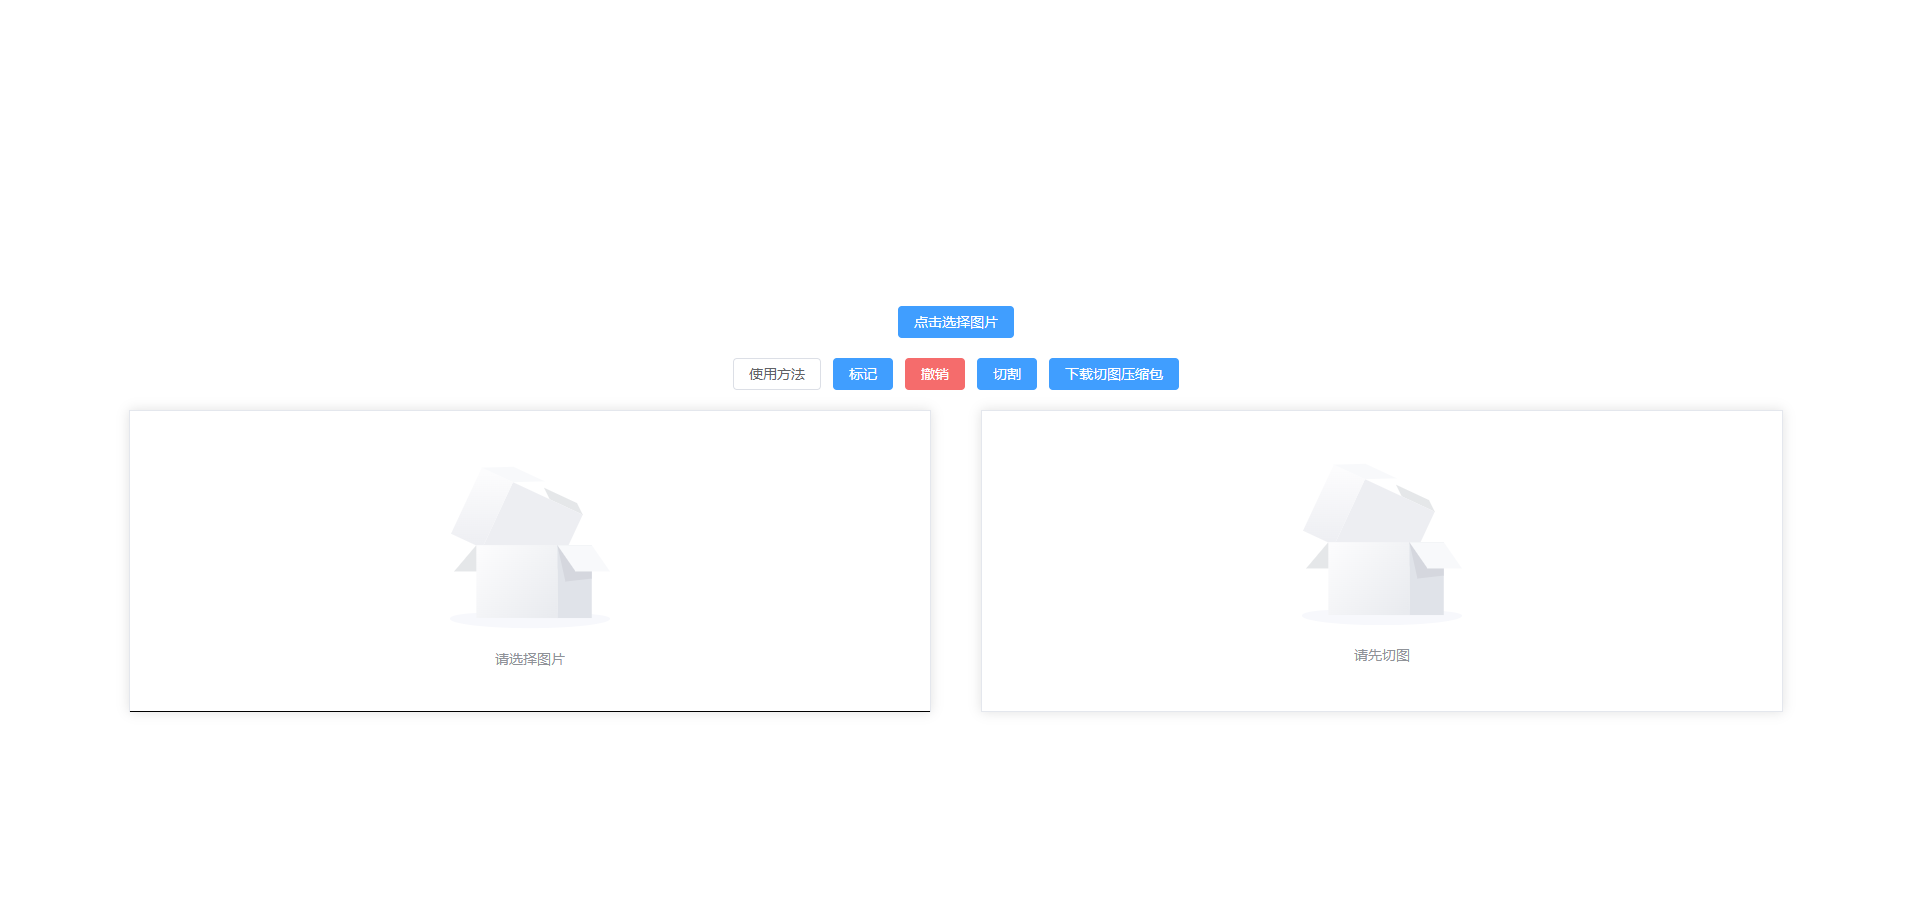
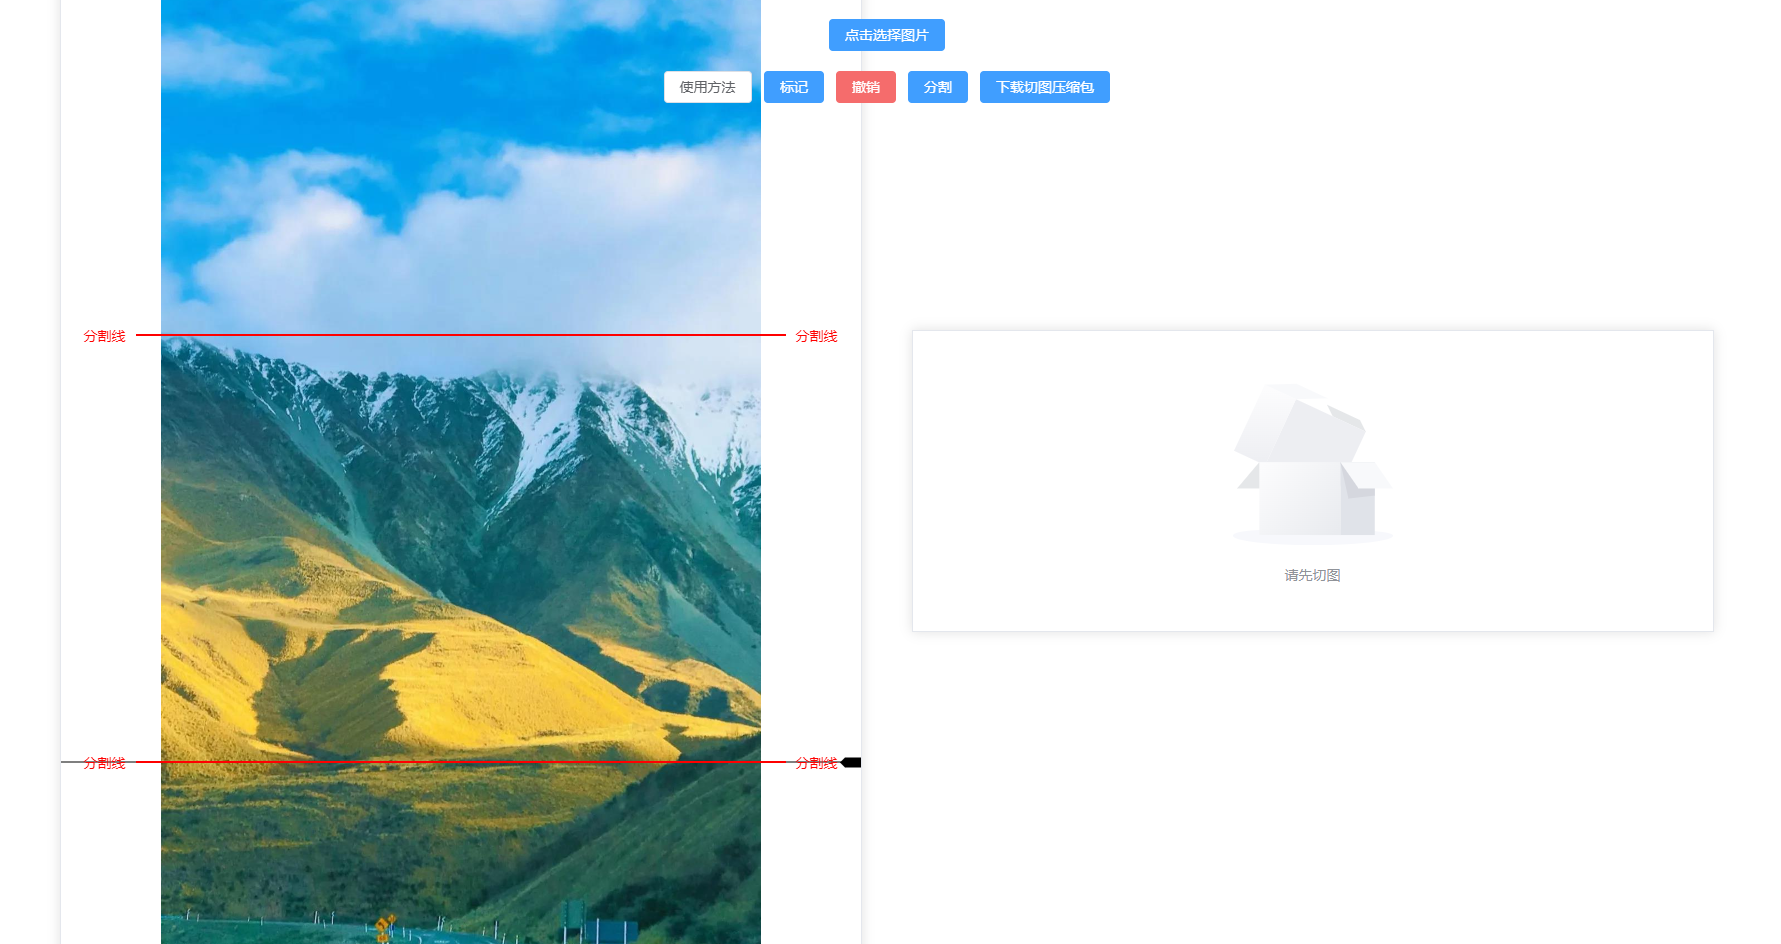
新增拖动功能

diff --git a/src/App.vue b/src/App.vue
@@ -25,13 +25,12 @@
         >下载切图压缩包</el-button
       >
     </div>
-
+    <!-- @click="handleLineClick" -->
     <div class="content-box">
       <div
         ref="imageBox"
         class="image-box"
         :style="{ height: imageHeight + 'px' }"
-        @click="handleLineClick"
       >
         <template v-if="!imageUrl">
           <el-empty description="请选择图片" />
@@ -41,11 +40,20 @@
           class="image-canvas"
           :style="{ height: imageHeight + 'px' }"
         ></canvas>
-        <div class="cut-line" :style="{ top: cutLinePosition + 'px' }"></div>
+        <!-- @mouseleave="endDrag" -->
+        <div
+          class="cut-line"
+          :style="{ top: cutLinePosition + 'px' }"
+          @mousedown.stop="startDrag"
+          @mousemove.stop="dragging"
+          @mouseup.stop="endDrag"
+        >
+          <div class="cut-line-marker"></div>
+        </div>
         <!-- <div class="mark-box">
-        <span class="mark-text">切割线</span>
+        <span class="mark-text">分割线</span>
         <div class="mark-line"></div>
-        <span class="mark-text">切割线</span>
+        <span class="mark-text">分割线</span>
       </div> -->
       </div>
       <div class="img-preview">
@@ -71,12 +79,12 @@ import { saveAs } from "file-saver";
 const OpenUsageInstructions = () => {
   ElMessageBox.alert(
     `${
-      "1.点击 '选择图片' 按钮选择图片<br>" +
-      "2.在图片左侧预览区任意位置点击，黑色线条即会移动到这个位置然后点击 '标记' 按钮就会在当前黑色线条停留位置生成一条红色的线来标记需要分割的位置<br>" +
-      "3.点击 '分割' 按钮开始分割，并将预览图展示出来<br>" +
-      "4.点击 '下载切图压缩包' 按钮即可下载分割好的图片压缩包<br>" +
-      "5.点击 '撤销' 按钮可撤销最近一次标记<br>" +
-      "6.点击 '重置' 按钮可重置（暂时没做，手动 F5 刷新）<br>" +
+      "1. 点击 '选择图片' 按钮选择图片，即可在左侧预览区预览图片<br>" +
+      "2. 在左侧预览区任意位置点击，或者鼠标在黑色线条处按下拖动，黑色线条即会移动到目标位置，点击 '标记' 按钮就会在当前黑色线条停留位置生成一条红色的线来标记需要分割的位置<br>" +
+      "3. 点击 '分割' 按钮开始分割，并在右侧将预览图展示出来<br>" +
+      "4. 点击 '下载切图压缩包' 按钮即可下载分割好的图片压缩包<br>" +
+      "5. 点击 '撤销' 按钮可撤销最近一次标记<br>" +
+      "6. 点击 '重置' 按钮可重置（暂时没做，手动 F5 刷新）<br>" +
       "Tisp：点击右上角图标即可查看源码"
     }`,
     "使用方法",
@@ -96,7 +104,7 @@ const imageBox = ref(null);
 const imageHeight = ref(300);
 
 // 标记点位置和标记线数组
-const cutLinePosition = ref(300);
+const cutLinePosition = ref(100);
 const cutLines = ref([]);
 const marks = ref([]);
 
@@ -146,7 +154,7 @@ const redrawMarks = () => {
     // 创建并设置mark-text元素
     const markTextBefore = document.createElement("span");
     markTextBefore.classList.add("mark-text");
-    markTextBefore.textContent = "切割线";
+    markTextBefore.textContent = "分割线";
 
     // 创建mark-line元素
     const markLine = document.createElement("div");
@@ -155,7 +163,7 @@ const redrawMarks = () => {
     // 创建并设置第二个mark-text元素
     const markTextAfter = document.createElement("span");
     markTextAfter.classList.add("mark-text");
-    markTextAfter.textContent = "切割线";
+    markTextAfter.textContent = "分割线";
 
     // 将mark-text和mark-line元素添加到markBox中
     markBox.appendChild(markTextBefore);
@@ -332,6 +340,92 @@ const handleDownload = () => {
     saveAs(content, "长切图压缩包包.zip");
   });
 };
+
+const isDragging = ref(false); // 拖拽状态标志
+const lastMouseY = ref(0); // 上一次鼠标的Y坐标
+
+const startDrag = (event) => {
+  console.log("====================================");
+  console.log("拖动开始了", event);
+  console.log("====================================");
+  isDragging.value = true;
+  lastMouseY.value = event.clientY;
+  document.addEventListener("mousemove", dragging);
+  document.addEventListener("mouseup", endDrag);
+  document.addEventListener("mouseleave", endDrag);
+};
+
+const dragging = (event) => {
+  if (!isDragging.value) return;
+
+  console.log("====================================");
+  console.log(isDragging.value, "拖动中", event);
+  console.log(event.clientY, "拖动中", lastMouseY.value);
+  console.log("====================================");
+
+  const deltaY = event.clientY - lastMouseY.value;
+
+  const maxHeight = imageBox.value.clientHeight; // 获取父元素高度
+
+  cutLinePosition.value = Math.max(
+    0,
+    Math.min(cutLinePosition.value + deltaY, maxHeight)
+  );
+  lastMouseY.value = event.clientY;
+
+  // 阻止页面滚动
+  event.preventDefault();
+};
+
+const endDrag = (event) => {
+  console.log("====================================");
+  console.log("拖动结束了", event);
+  // 获取cut-line元素的引用
+  const cutLineElement = document.querySelector(".cut-line");
+  // 获取image-box元素的引用
+  const imageBoxElement = document.querySelector(".image-box");
+  console.log(
+    "距离",
+    getOffsetTopRelativeToParent(cutLineElement, imageBoxElement)
+  );
+  console.log("====================================");
+  isDragging.value = false;
+  document.removeEventListener("mousemove", dragging);
+  document.removeEventListener("mouseup", endDrag);
+  document.removeEventListener("mouseleave", endDrag);
+};
+
+const getOffsetTopRelativeToParent = (childElement, parentElement) => {
+  // 首先获取子元素相对于文档的偏移量
+  const childRect = childElement.getBoundingClientRect();
+  const childOffsetTop = childRect.top + window.scrollY;
+
+  // 然后获取父元素的边距和边框
+  const parentStyle = getComputedStyle(parentElement);
+  const parentBorderTop = parseInt(parentStyle.borderTopWidth, 10);
+  const parentPaddingTop = parseInt(parentStyle.paddingTop, 10);
+
+  // 计算父元素的顶部偏移量，包括边距和边框
+  const parentOffsetTop =
+    parentElement.offsetTop + parentBorderTop + parentPaddingTop;
+
+  // 最后，从子元素相对于文档的偏移量中减去父元素的偏移量，得到相对于父元素的偏移量
+  return childOffsetTop - parentOffsetTop;
+};
+
+onMounted(() => {
+  // 获取cut-line元素的引用
+  const cutLineElement = document.querySelector(".cut-line");
+  // 获取image-box元素的引用
+  const imageBoxElement = document.querySelector(".image-box");
+
+  console.log("====================================");
+  console.log(
+    "距离",
+    getOffsetTopRelativeToParent(cutLineElement, imageBoxElement)
+  );
+  console.log("====================================");
+});
 </script>
 
 <style lang="less" scoped>
@@ -395,6 +489,33 @@ const handleDownload = () => {
   background-color: black;
   top: 300px; /* 默认悬浮位置 */
   z-index: 9;
+  cursor: ns-resize;
+  transform: translateY(-50%);
+  display: flex; /* 使用flex布局 */
+  align-items: center; /* 垂直居中对齐 */
+  justify-content: flex-end; /* 水平方向上靠右对齐 */
+}
+
+.cut-line-marker {
+  width: 16px; /* 小元素的宽度 */
+  height: 10px; /* 小元素的高度 */
+  background-color: black; /* 小元素的背景颜色 */
+  // border-radius: 50%; /* 圆形效果 */
+  margin-left: 5px; /* 与横线的间距 */
+  position: relative;
+}
+
+.cut-line-marker::after {
+  content: ""; /* 伪元素需要content属性 */
+  width: 0;
+  height: 0;
+  border-top: 5px solid transparent; /* 上边框 */
+  border-bottom: 5px solid transparent; /* 下边框 */
+  border-right: 5px solid black; /* 右边框，形成三角形 */
+  position: absolute; /* 绝对定位 */
+  top: 50%; /* 垂直居中 */
+  left: -5px; /* 位于矩形的左侧外侧 */
+  transform: translateY(-50%); /* 垂直居中 */
 }
 
 :global(.mark-box) {
@@ -406,6 +527,9 @@ const handleDownload = () => {
   display: flex;
   align-items: center;
   justify-content: center;
+  z-index: 99;
+  user-select: none;
+  pointer-events: none;
 }
 
 :global(.mark-line) {

diff --git a/README.md b/README.md
@@ -1,19 +1,22 @@
 # 无名长图片自由分割/切割在线工具
 
 ## 项目介绍
-在网上闲逛的时候发现有人需要长图自由分割工具，也没找到能用的，就想着自己写一个。
 
-一开始想用类似视频剪辑拖动标记线来定位，但是没实现，目前只实现了点击标记。
+在网上闲逛的时候发现有人需要长图片自由分割工具，也没找到能用的，就想着自己写一个，实现思路就是类似于视频剪辑的视频分割方式。
 
 纯前端实现无需网络
 
+##### 使用技术
+
+Vue3，element-plus，pnpm，file-saver，jszip
+
 ## 使用方法
 
-1.点击 "选择图片" 按钮选择图片
+1.点击 "选择图片" 按钮选择图片，即可在左侧预览区预览图片
 
-2.在图片左侧预览区任意位置点击，黑色线条即会移动到这个为止然后点击 "标记" 按钮就会在当前海色线条停留位置生成一条红色的线来标记需要分割的位置
+2.在左侧预览区任意位置点击，或者鼠标在黑色线条处按下拖动，黑色线条即会移动到目标位置，点击 "标记" 按钮就会在当前黑色线条停留位置生成一条红色的线来标记需要分割的位置
 
-3.点击 "分割" 按钮开始分割，并将预览图展示出来
+3.点击 "分割" 按钮开始分割，并在右侧将预览图展示出来
 
 4.点击 "下载切图压缩包" 按钮即可下载分割好的图片压缩包
 
@@ -30,7 +33,3 @@
 <center> 图二 </center>
 
 ![图二](./演示图/图二.jpg)
-
-<center> 图三 </center>
-
-![图三](./演示图/图三.jpg)
